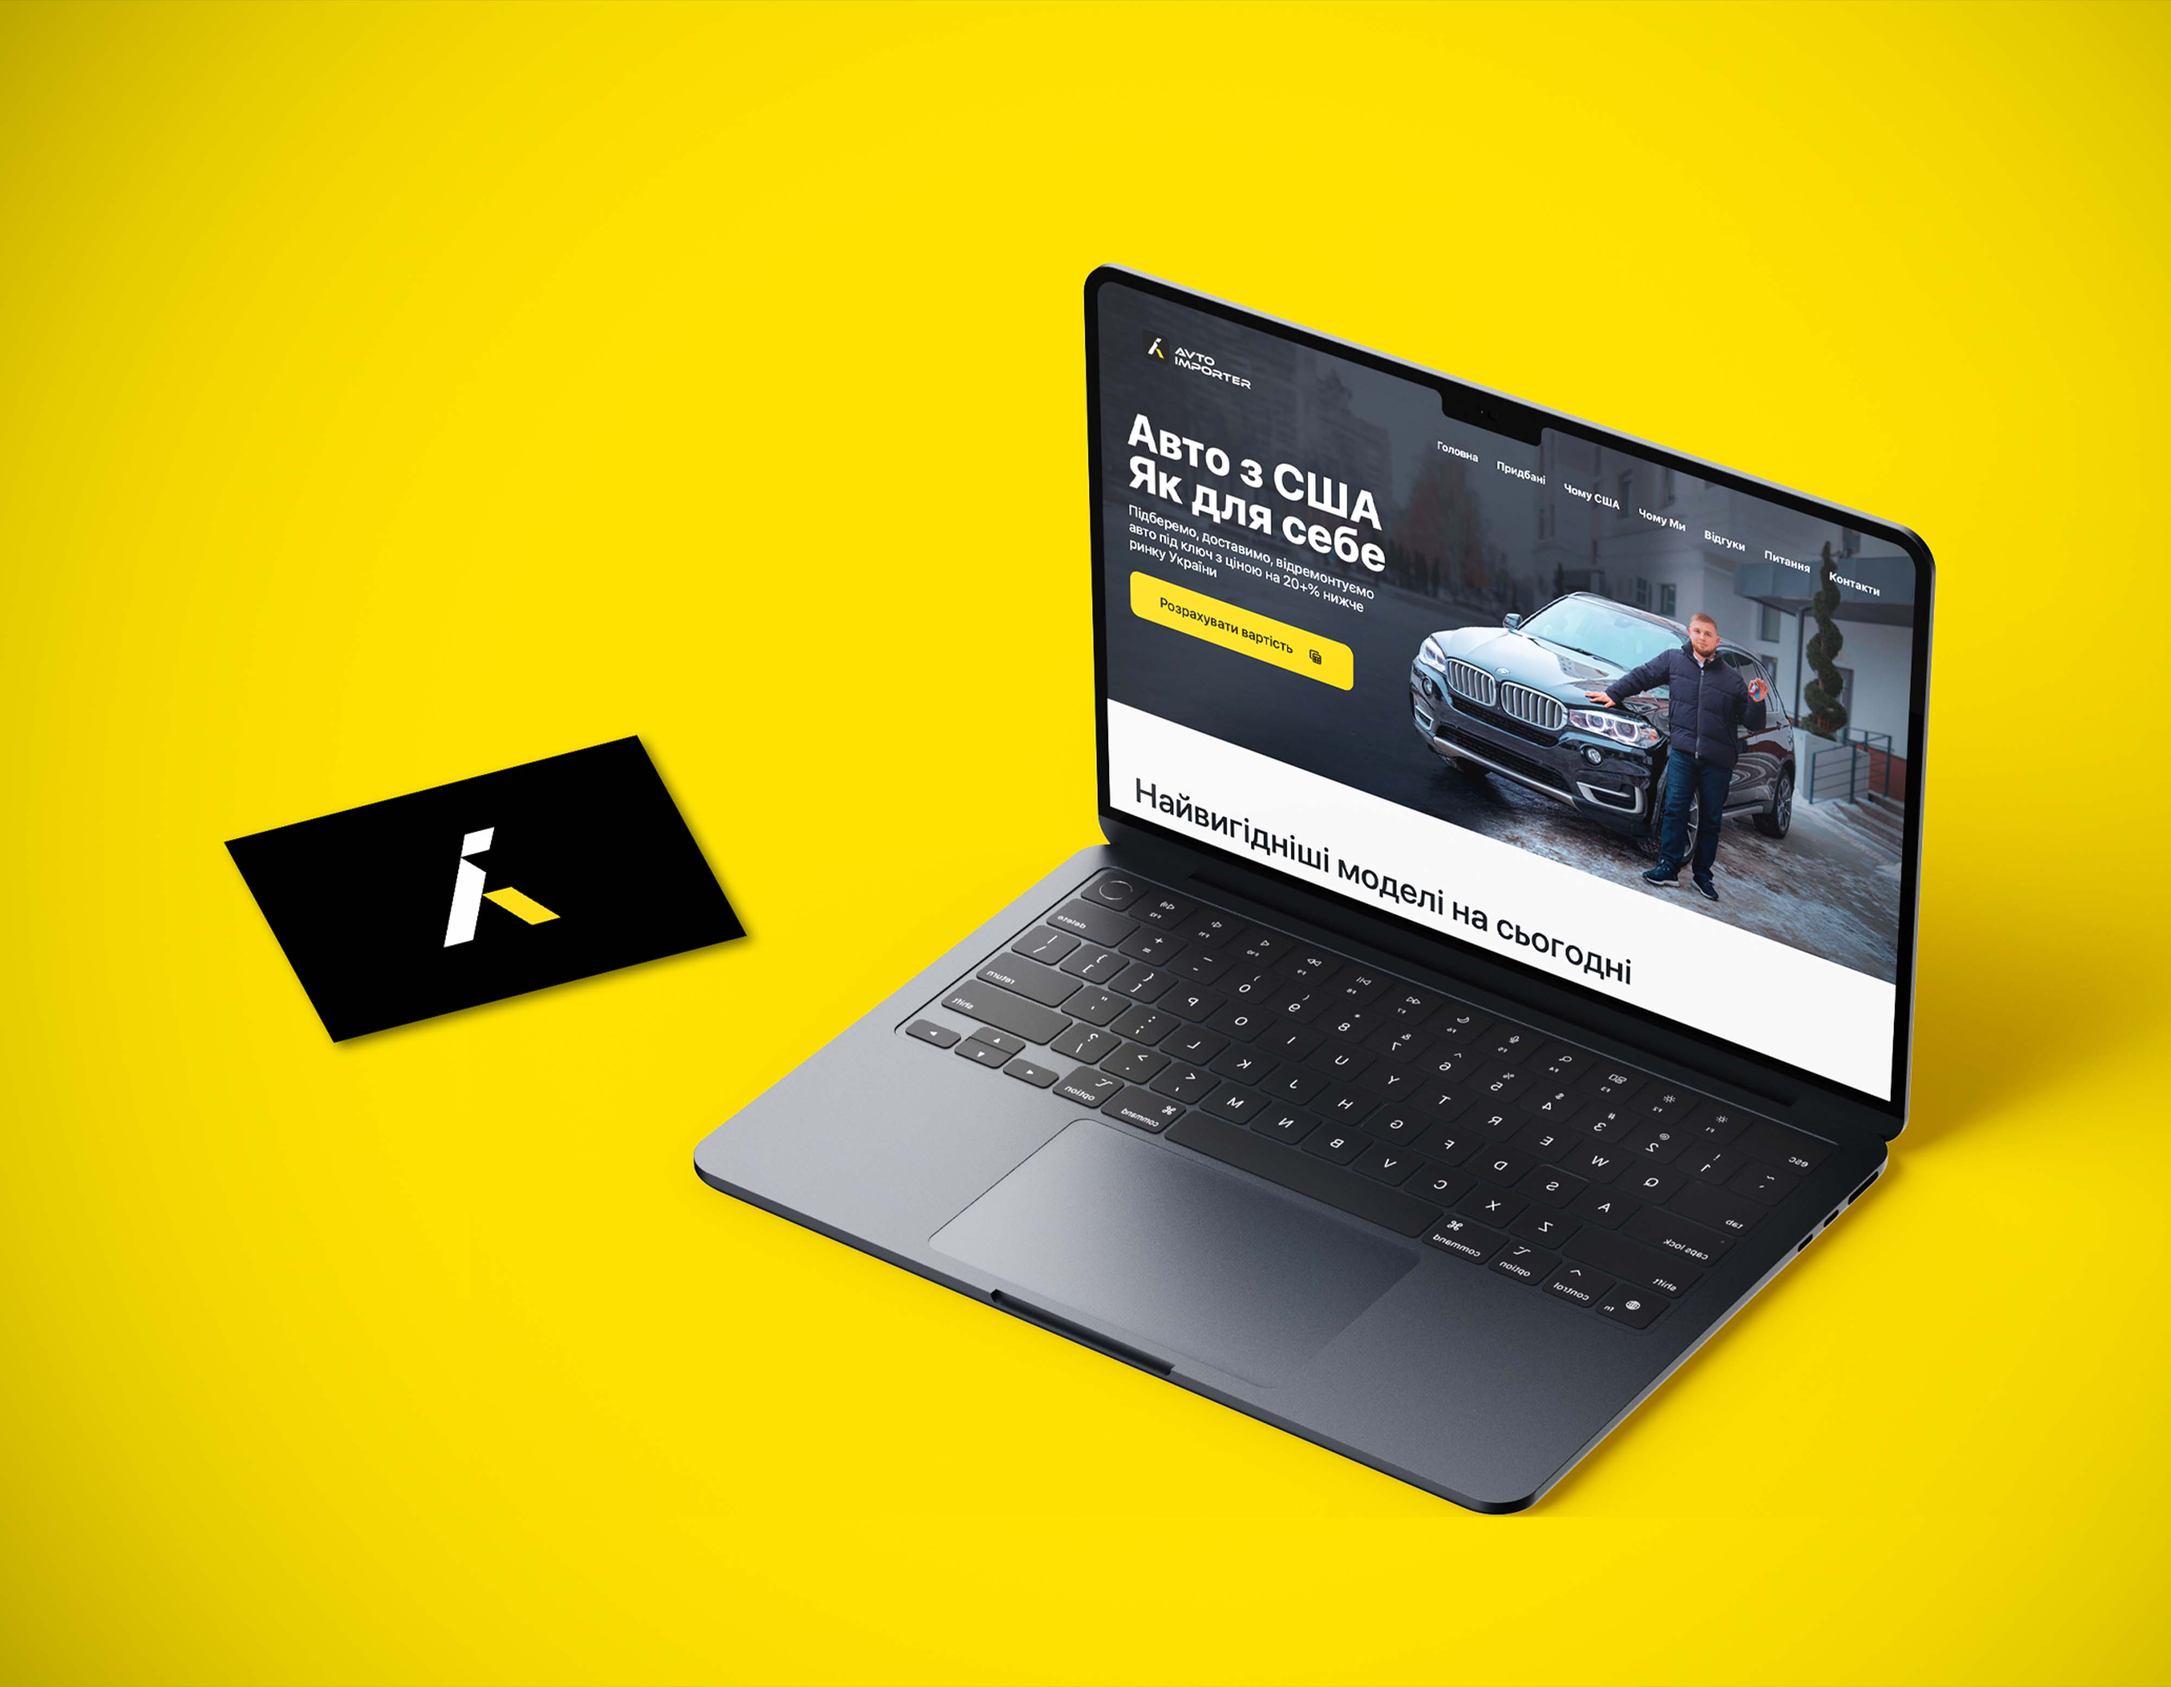
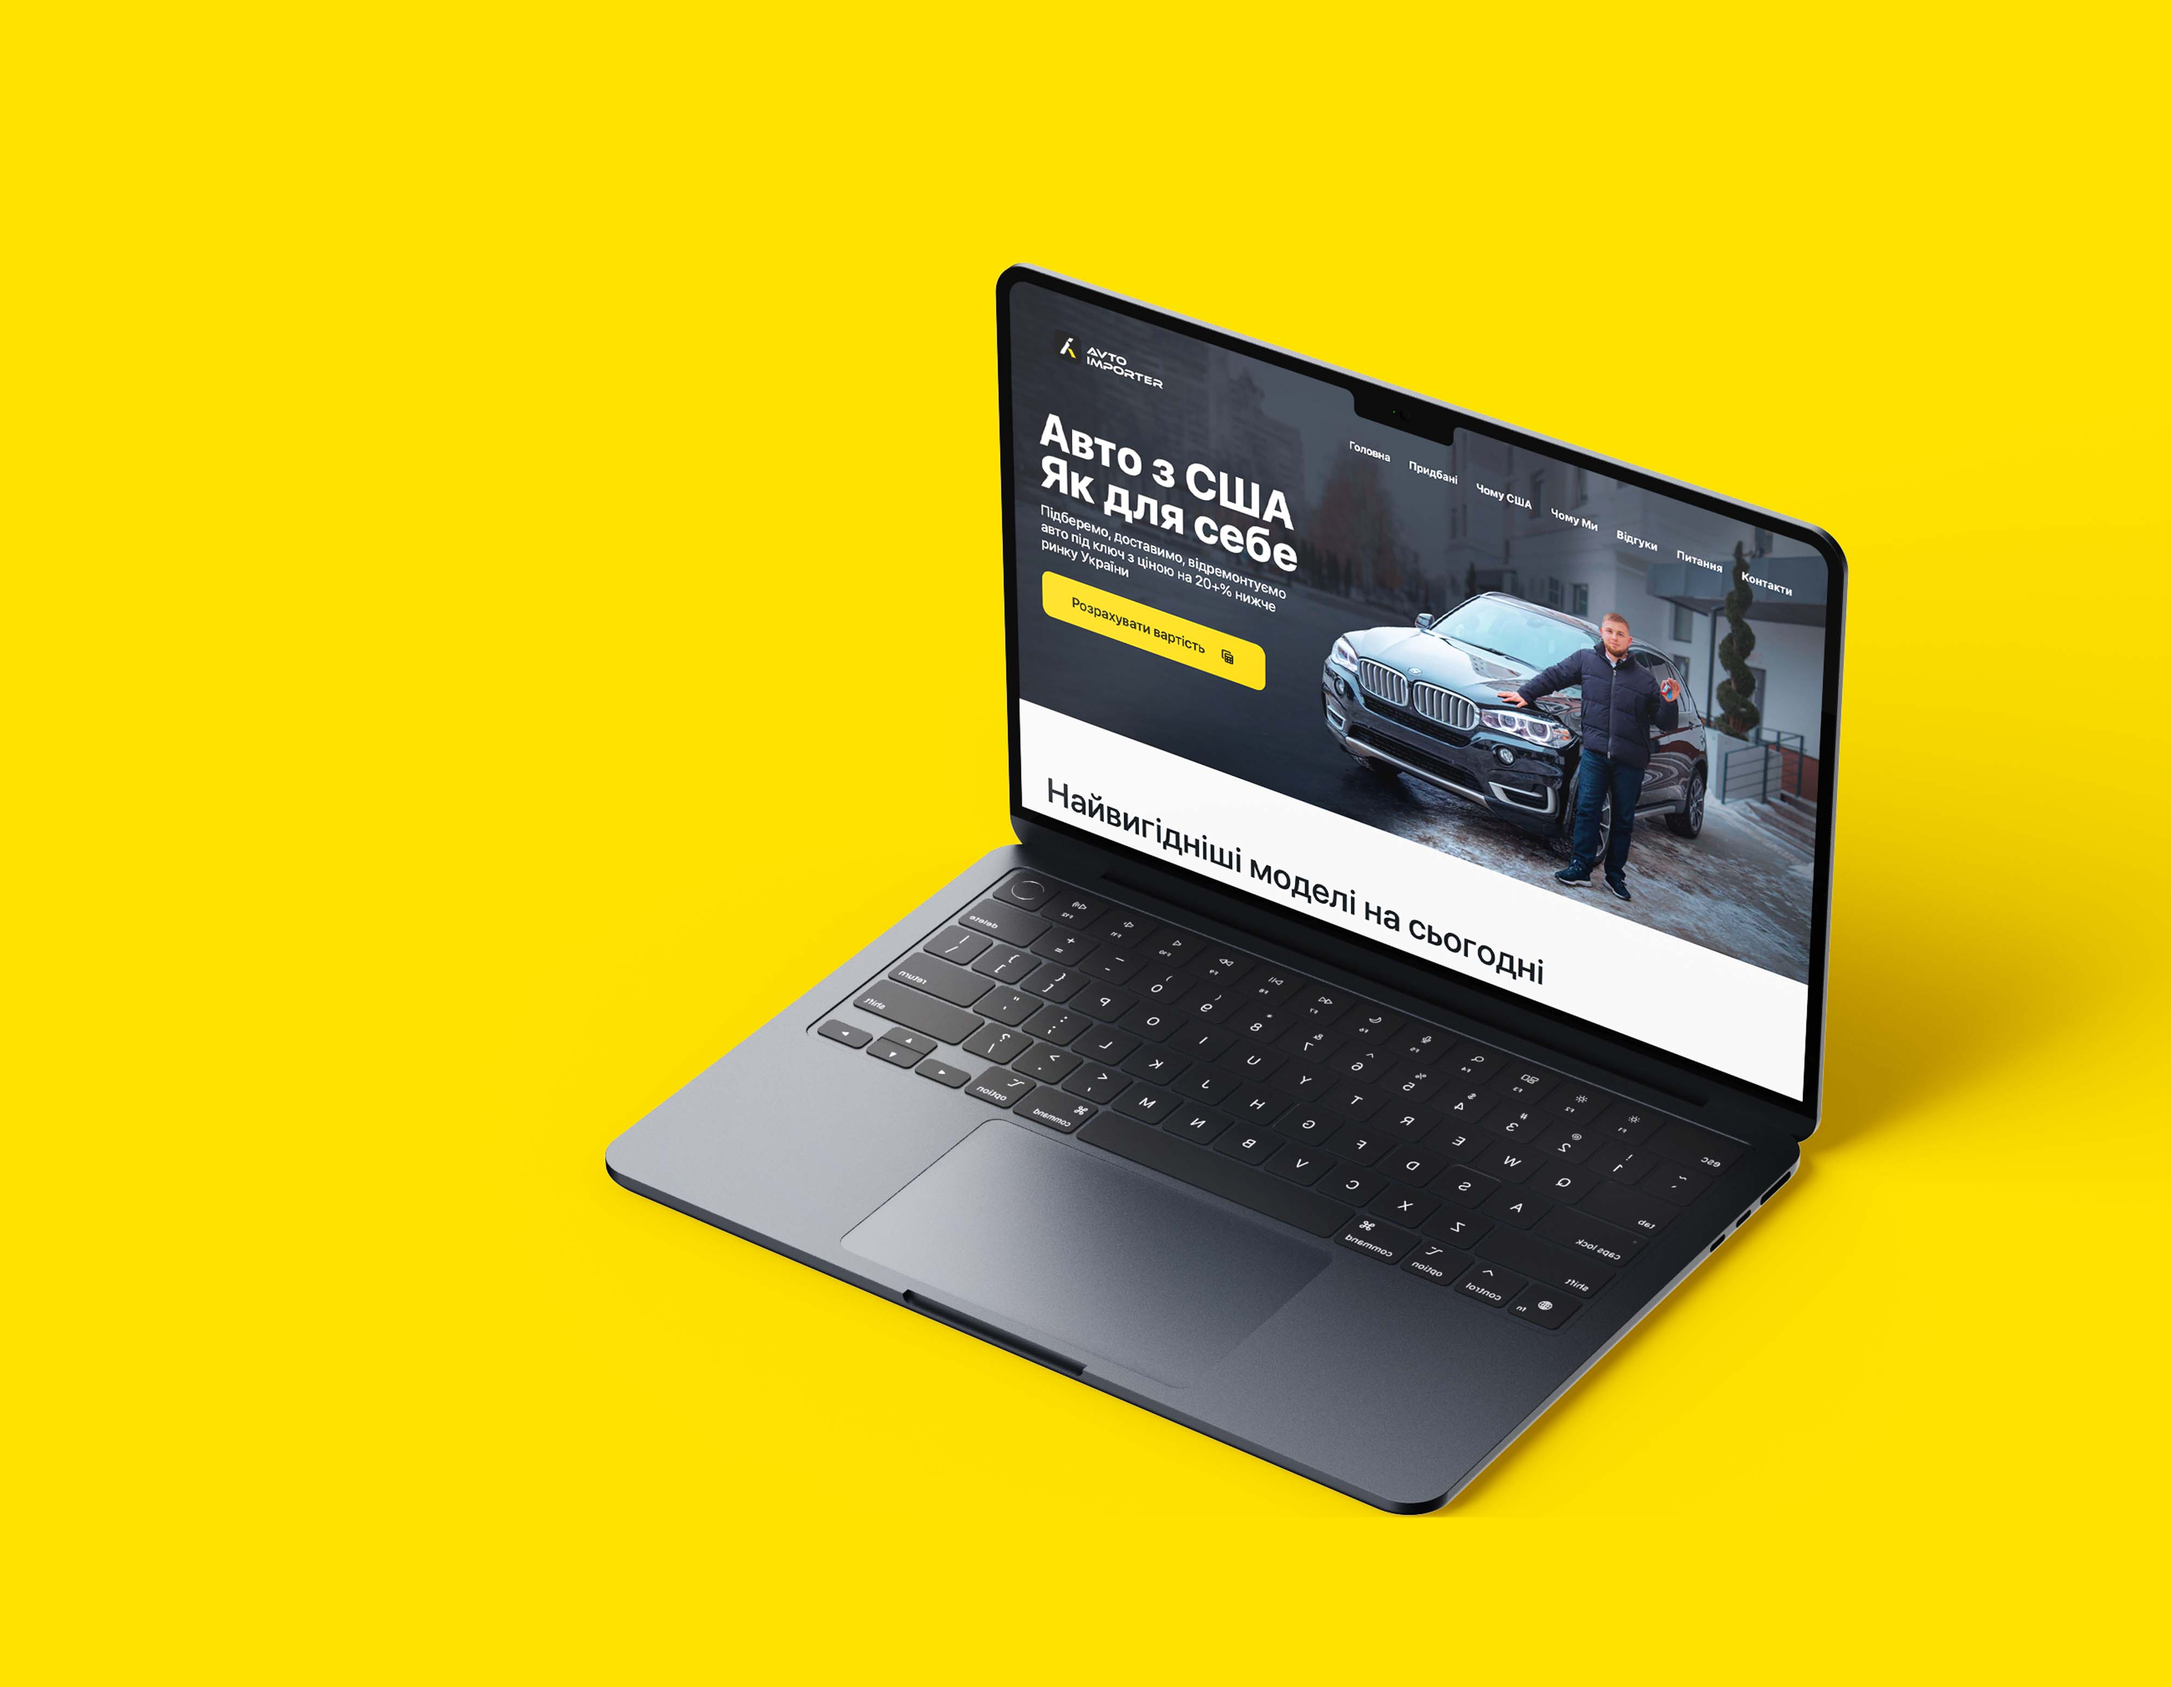
1

diff --git a/index.html b/index.html
@@ -244,7 +244,7 @@
           </div>
           <div class="row justify-content-center w-6">
             <div class="col-10 position-relative block_main_home">
-              <a href="index7.html">
+              <a href="index14.html">
                 <picture><source srcset="img/Landing_avto.webp" type="image/webp"><img id="img_main_5" class="mobile_pic" src="img/Landing_avto.jpg" alt=""></picture>
               </a>
               <div class="row row_info_main">

diff --git a/index14.html b/index14.html
@@ -107,7 +107,7 @@
             </div>
           </div>
           <div class="info_gradient"></div>
-          <div id="imgbox" class="imgbox imgbox_course">
+          <div id="imgbox" class="imgbox imgbox_avto">
             <picture><img class="img_back_main"  src="img/avto_main.jpg" alt=""></picture>
             <div class="lds-dual-ring"></div>
           </div>

diff --git a/css/style.css b/css/style.css
@@ -2145,6 +2145,14 @@ background: linear-gradient(0deg, rgba(255, 255, 255, 1) 0%, rgba(19, 80, 60, 1)
   width: 85% !important;
   padding-top: 20%;
 }
+.imgbox_avto{
+  background-color: #ffe300 !important;
+}
+.imgbox_avto img{
+  position: absolute;
+  width: 85% !important;
+  padding-top: 20%;
+}
 
 #carouselExampleIndicators2 {
   display: none;
